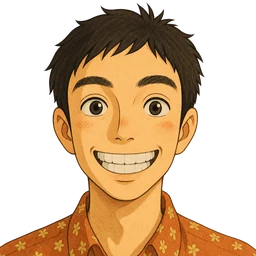
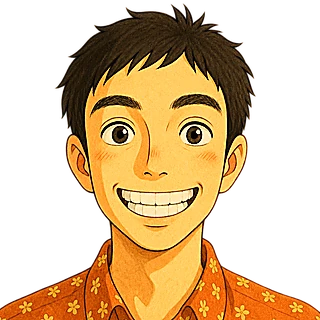
Sharper footer portrait: positive ASCII cube, finer cells, crisper Swarm
- Cube texture redrawn as inked line art from the 1254px portrait
  (difference-of-gaussians lines over flat tones) and rendered as a
  positive image: skin is dense glyphs, hair and lines are gaps, background
  a sparse dot field so the cube outline stays. Cells 3.75px (3.25px on
  phones), ~75 columns. Rainbow unchanged.
- Swarm: 320px sharpened, slightly saturated source; 24k finer beads (18k on
  phones); near-flat shading once landed so the illustration's tones carry
  the face.

diff --git a/now.html b/now.html
@@ -100,7 +100,7 @@
         <div class="container" id="footer-content" data-injected="true"><div class="cube-wrapper" aria-hidden="true"><canvas id="ascii-cube"></canvas></div><div class="viz-switch" role="group" aria-label="Footer animation" hidden><button type="button" data-viz="cube" aria-pressed="true">Cube</button><button type="button" data-viz="swarm" aria-pressed="false">Swarm</button></div><div class="social-icons"><a href="https://www.linkedin.com/in/manaiakalani/" target="_blank" rel="noopener noreferrer me" aria-label="LinkedIn"><svg class="icon" viewBox="0 0 24 24" aria-hidden="true" focusable="false"><path fill="currentColor" d="M4.4 3.2A2.2 2.2 0 1 0 4.4 7.6 2.2 2.2 0 0 0 4.4 3.2ZM3.2 9.2h2.5V20.8H3.2V9.2Zm5.3 0h2.4v1.6h.1c.3-.6 1.2-1.8 3.2-1.8 3.4 0 4 2.2 4 5.1v6.7h-2.5v-6c0-1.4 0-3.2-2-3.2s-2.3 1.5-2.3 3.1v6.1H8.5V9.2Z"/></svg></a><a href="https://x.com/manaiakalani" target="_blank" rel="noopener noreferrer me" aria-label="X (formerly Twitter)"><svg class="icon" viewBox="0 0 24 24" aria-hidden="true" focusable="false"><path fill="currentColor" d="M3.2 3.2h5.1l4.1 5.8L17.3 3.2H21l-7.1 8.4L21.2 20.8h-5.1l-4.5-6.4-5.2 6.4H3.2l7.6-8.9L3.2 3.2z"/></svg></a><a href="https://github.com/manaiakalani" target="_blank" rel="noopener noreferrer me" aria-label="GitHub"><svg class="icon" viewBox="0 0 24 24" aria-hidden="true" focusable="false"><path fill="currentColor" d="M12 2a10 10 0 0 0-3.2 19.5c.5.1.7-.2.7-.5v-1.7c-2.8.6-3.4-1.2-3.4-1.2-.4-1.1-1.1-1.4-1.1-1.4-.9-.6.1-.6.1-.6 1 .1 1.5 1 1.5 1 .9 1.5 2.4 1.1 3 .8.1-.6.4-1.1.6-1.3-2.2-.3-4.6-1.1-4.6-5 0-1.1.4-2 1-2.7-.1-.3-.4-1.3.1-2.7 0 0 .8-.3 2.8 1a9.6 9.6 0 0 1 5 0c2-.1.8-1 2.8-1 .5 1.4.2 2.4.1 2.7.6.7 1 1.6 1 2.7 0 3.9-2.4 4.7-4.6 5 .4.3.7 1 .7 2v2.3c0 .3.2.6.7.5A10 10 0 0 0 12 2z"/></svg></a><a href="https://instagram.com/manaiakalani" target="_blank" rel="noopener noreferrer me" aria-label="Instagram"><svg class="icon" viewBox="0 0 24 24" aria-hidden="true" focusable="false"><path fill="currentColor" fill-rule="evenodd" d="M8 3h8a5 5 0 0 1 5 5v8a5 5 0 0 1-5 5H8a5 5 0 0 1-5-5V8a5 5 0 0 1 5-5Zm8 2.2H8A2.8 2.8 0 0 0 5.2 8v8A2.8 2.8 0 0 0 8 18.8h8A2.8 2.8 0 0 0 18.8 16V8A2.8 2.8 0 0 0 16 5.2ZM12 8.2A3.8 3.8 0 1 1 8.2 12 3.8 3.8 0 0 1 12 8.2Zm0 2a1.8 1.8 0 1 0 0 3.6 1.8 1.8 0 0 0 0-3.6ZM17.1 6.4a1 1 0 1 1 0 2 1 1 0 0 1 0-2Z"/></svg></a><a href="https://www.youtube.com/kimaker213" target="_blank" rel="noopener noreferrer me" aria-label="YouTube"><svg class="icon" viewBox="0 0 24 24" aria-hidden="true" focusable="false"><path fill="currentColor" fill-rule="evenodd" d="M21.6 7.4c-.2-1.2-1.1-2.1-2.3-2.3C17.4 4.8 12 4.8 12 4.8s-5.4 0-7.3.3C3.5 5.3 2.6 6.2 2.4 7.4 2.1 9.3 2.1 12 2.1 12s0 2.7.3 4.6c.2 1.2 1.1 2 2.3 2.3 1.9.3 7.3.3 7.3.3s5.4 0 7.3-.3c1.2-.3 2.1-1.1 2.3-2.3.3-1.9.3-4.6.3-4.6s0-2.7-.3-4.6ZM10.2 15.2V8.8l5.6 3.2-5.6 3.2Z"/></svg></a><a href="https://bsky.app/profile/did:plc:kurxpumma6piictgpr424wcj" target="_blank" rel="noopener noreferrer me" aria-label="Bluesky"><svg class="icon" viewBox="0 0 24 24" aria-hidden="true" focusable="false"><path fill="currentColor" d="M6.2 4.2c2.4 1.8 5 5.3 5.8 7.4.8-2.1 3.4-5.6 5.8-7.4C20.2 2.8 21 3.1 21.5 3.4c.6.3.7 1.3.7 1.9 0 .6-.3 4.9-.5 5.6-.7 2.3-3.2 3.1-5.5 2.8 3.3.5 6.3 1.7 2.4 6-4.3 4.4-5.9-.9-6.6-3.6-.8 2.7-1.8 8-6.6 3.6-3.7-3.7-1-5.5 2.4-6-2.3.3-4.8-.5-5.5-2.8C1.6 10.2 1.3 5.9 1.3 5.3c0-.6.1-1.6.7-1.9.5-.3 1.3-.6 4.2.8Z"/></svg></a></div><p class="footer-links"><a href="/guestbook#sign" class="footer-text-btn" id="sign-the-book"><svg class="icon" viewBox="0 0 24 24" aria-hidden="true" focusable="false"><path fill="currentColor" d="M4 3.2h6.2c1.4 0 2.6.6 3.4 1.6.8-1 2-1.6 3.4-1.6H23V19h-6.2c-1 0-1.9.3-2.6.9V6.4A2.4 2.4 0 0 0 11.8 4H5.6v16.4h6.6V22H4V3.2z"/></svg> Sign the book</a><a href="/now">Now</a><a href="/colophon">Colophon</a><a href="https://github.com/Manaiakalani/Manaiakalani.com">Source</a><a href="mailto:webmaster@manaiakalani.com">Email</a><a href="/feed.xml">RSS</a></p><p class="footer-text">Made with <span class="heart-beat" aria-hidden="true"><svg class="icon" viewBox="0 0 24 24" aria-hidden="true" focusable="false"><path fill="currentColor" d="M12 21S3 14.4 3 8.8A5.1 5.1 0 0 1 8.4 3.6 5.4 5.4 0 0 1 12 5.4a5.4 5.4 0 0 1 3.6-1.8A5.1 5.1 0 0 1 21 8.8C21 14.4 12 21 12 21z"/></svg></span> in Seattle, WA</p><p class="footer-visits" hidden><span class="visits-odometer" aria-label="Visitor count"></span><span class="visits-label">Visitors</span></p></div>
     </footer>
     <script defer src="/icons.js?v=8e859fc3"></script>
-    <script defer src="/components.js?v=49461e99"></script>
+    <script defer src="/components.js?v=a51a2149"></script>
     <script defer src="/guestbook.js?v=97c19949"></script>
     <script defer src="/script.js?v=3a3123b8"></script>
     <script type="importmap">

diff --git a/guestbook.html b/guestbook.html
@@ -82,7 +82,7 @@
         <div class="container" id="footer-content" data-injected="true"><div class="cube-wrapper" aria-hidden="true"><canvas id="ascii-cube"></canvas></div><div class="viz-switch" role="group" aria-label="Footer animation" hidden><button type="button" data-viz="cube" aria-pressed="true">Cube</button><button type="button" data-viz="swarm" aria-pressed="false">Swarm</button></div><div class="social-icons"><a href="https://www.linkedin.com/in/manaiakalani/" target="_blank" rel="noopener noreferrer me" aria-label="LinkedIn"><svg class="icon" viewBox="0 0 24 24" aria-hidden="true" focusable="false"><path fill="currentColor" d="M4.4 3.2A2.2 2.2 0 1 0 4.4 7.6 2.2 2.2 0 0 0 4.4 3.2ZM3.2 9.2h2.5V20.8H3.2V9.2Zm5.3 0h2.4v1.6h.1c.3-.6 1.2-1.8 3.2-1.8 3.4 0 4 2.2 4 5.1v6.7h-2.5v-6c0-1.4 0-3.2-2-3.2s-2.3 1.5-2.3 3.1v6.1H8.5V9.2Z"/></svg></a><a href="https://x.com/manaiakalani" target="_blank" rel="noopener noreferrer me" aria-label="X (formerly Twitter)"><svg class="icon" viewBox="0 0 24 24" aria-hidden="true" focusable="false"><path fill="currentColor" d="M3.2 3.2h5.1l4.1 5.8L17.3 3.2H21l-7.1 8.4L21.2 20.8h-5.1l-4.5-6.4-5.2 6.4H3.2l7.6-8.9L3.2 3.2z"/></svg></a><a href="https://github.com/manaiakalani" target="_blank" rel="noopener noreferrer me" aria-label="GitHub"><svg class="icon" viewBox="0 0 24 24" aria-hidden="true" focusable="false"><path fill="currentColor" d="M12 2a10 10 0 0 0-3.2 19.5c.5.1.7-.2.7-.5v-1.7c-2.8.6-3.4-1.2-3.4-1.2-.4-1.1-1.1-1.4-1.1-1.4-.9-.6.1-.6.1-.6 1 .1 1.5 1 1.5 1 .9 1.5 2.4 1.1 3 .8.1-.6.4-1.1.6-1.3-2.2-.3-4.6-1.1-4.6-5 0-1.1.4-2 1-2.7-.1-.3-.4-1.3.1-2.7 0 0 .8-.3 2.8 1a9.6 9.6 0 0 1 5 0c2-.1.8-1 2.8-1 .5 1.4.2 2.4.1 2.7.6.7 1 1.6 1 2.7 0 3.9-2.4 4.7-4.6 5 .4.3.7 1 .7 2v2.3c0 .3.2.6.7.5A10 10 0 0 0 12 2z"/></svg></a><a href="https://instagram.com/manaiakalani" target="_blank" rel="noopener noreferrer me" aria-label="Instagram"><svg class="icon" viewBox="0 0 24 24" aria-hidden="true" focusable="false"><path fill="currentColor" fill-rule="evenodd" d="M8 3h8a5 5 0 0 1 5 5v8a5 5 0 0 1-5 5H8a5 5 0 0 1-5-5V8a5 5 0 0 1 5-5Zm8 2.2H8A2.8 2.8 0 0 0 5.2 8v8A2.8 2.8 0 0 0 8 18.8h8A2.8 2.8 0 0 0 18.8 16V8A2.8 2.8 0 0 0 16 5.2ZM12 8.2A3.8 3.8 0 1 1 8.2 12 3.8 3.8 0 0 1 12 8.2Zm0 2a1.8 1.8 0 1 0 0 3.6 1.8 1.8 0 0 0 0-3.6ZM17.1 6.4a1 1 0 1 1 0 2 1 1 0 0 1 0-2Z"/></svg></a><a href="https://www.youtube.com/kimaker213" target="_blank" rel="noopener noreferrer me" aria-label="YouTube"><svg class="icon" viewBox="0 0 24 24" aria-hidden="true" focusable="false"><path fill="currentColor" fill-rule="evenodd" d="M21.6 7.4c-.2-1.2-1.1-2.1-2.3-2.3C17.4 4.8 12 4.8 12 4.8s-5.4 0-7.3.3C3.5 5.3 2.6 6.2 2.4 7.4 2.1 9.3 2.1 12 2.1 12s0 2.7.3 4.6c.2 1.2 1.1 2 2.3 2.3 1.9.3 7.3.3 7.3.3s5.4 0 7.3-.3c1.2-.3 2.1-1.1 2.3-2.3.3-1.9.3-4.6.3-4.6s0-2.7-.3-4.6ZM10.2 15.2V8.8l5.6 3.2-5.6 3.2Z"/></svg></a><a href="https://bsky.app/profile/did:plc:kurxpumma6piictgpr424wcj" target="_blank" rel="noopener noreferrer me" aria-label="Bluesky"><svg class="icon" viewBox="0 0 24 24" aria-hidden="true" focusable="false"><path fill="currentColor" d="M6.2 4.2c2.4 1.8 5 5.3 5.8 7.4.8-2.1 3.4-5.6 5.8-7.4C20.2 2.8 21 3.1 21.5 3.4c.6.3.7 1.3.7 1.9 0 .6-.3 4.9-.5 5.6-.7 2.3-3.2 3.1-5.5 2.8 3.3.5 6.3 1.7 2.4 6-4.3 4.4-5.9-.9-6.6-3.6-.8 2.7-1.8 8-6.6 3.6-3.7-3.7-1-5.5 2.4-6-2.3.3-4.8-.5-5.5-2.8C1.6 10.2 1.3 5.9 1.3 5.3c0-.6.1-1.6.7-1.9.5-.3 1.3-.6 4.2.8Z"/></svg></a></div><p class="footer-links"><a href="/guestbook#sign" class="footer-text-btn" id="sign-the-book"><svg class="icon" viewBox="0 0 24 24" aria-hidden="true" focusable="false"><path fill="currentColor" d="M4 3.2h6.2c1.4 0 2.6.6 3.4 1.6.8-1 2-1.6 3.4-1.6H23V19h-6.2c-1 0-1.9.3-2.6.9V6.4A2.4 2.4 0 0 0 11.8 4H5.6v16.4h6.6V22H4V3.2z"/></svg> Sign the book</a><a href="/now">Now</a><a href="/colophon">Colophon</a><a href="https://github.com/Manaiakalani/Manaiakalani.com">Source</a><a href="mailto:webmaster@manaiakalani.com">Email</a><a href="/feed.xml">RSS</a></p><p class="footer-text">Made with <span class="heart-beat" aria-hidden="true"><svg class="icon" viewBox="0 0 24 24" aria-hidden="true" focusable="false"><path fill="currentColor" d="M12 21S3 14.4 3 8.8A5.1 5.1 0 0 1 8.4 3.6 5.4 5.4 0 0 1 12 5.4a5.4 5.4 0 0 1 3.6-1.8A5.1 5.1 0 0 1 21 8.8C21 14.4 12 21 12 21z"/></svg></span> in Seattle, WA</p><p class="footer-visits" hidden><span class="visits-odometer" aria-label="Visitor count"></span><span class="visits-label">Visitors</span></p></div>
     </footer>
     <script defer src="/icons.js?v=8e859fc3"></script>
-    <script defer src="/components.js?v=49461e99"></script>
+    <script defer src="/components.js?v=a51a2149"></script>
     <script defer src="/guestbook.js?v=97c19949"></script>
     <script defer src="/script.js?v=3a3123b8"></script>
     <script type="importmap">

diff --git a/colophon.html b/colophon.html
@@ -105,7 +105,7 @@
         <div class="container" id="footer-content" data-injected="true"><div class="cube-wrapper" aria-hidden="true"><canvas id="ascii-cube"></canvas></div><div class="viz-switch" role="group" aria-label="Footer animation" hidden><button type="button" data-viz="cube" aria-pressed="true">Cube</button><button type="button" data-viz="swarm" aria-pressed="false">Swarm</button></div><div class="social-icons"><a href="https://www.linkedin.com/in/manaiakalani/" target="_blank" rel="noopener noreferrer me" aria-label="LinkedIn"><svg class="icon" viewBox="0 0 24 24" aria-hidden="true" focusable="false"><path fill="currentColor" d="M4.4 3.2A2.2 2.2 0 1 0 4.4 7.6 2.2 2.2 0 0 0 4.4 3.2ZM3.2 9.2h2.5V20.8H3.2V9.2Zm5.3 0h2.4v1.6h.1c.3-.6 1.2-1.8 3.2-1.8 3.4 0 4 2.2 4 5.1v6.7h-2.5v-6c0-1.4 0-3.2-2-3.2s-2.3 1.5-2.3 3.1v6.1H8.5V9.2Z"/></svg></a><a href="https://x.com/manaiakalani" target="_blank" rel="noopener noreferrer me" aria-label="X (formerly Twitter)"><svg class="icon" viewBox="0 0 24 24" aria-hidden="true" focusable="false"><path fill="currentColor" d="M3.2 3.2h5.1l4.1 5.8L17.3 3.2H21l-7.1 8.4L21.2 20.8h-5.1l-4.5-6.4-5.2 6.4H3.2l7.6-8.9L3.2 3.2z"/></svg></a><a href="https://github.com/manaiakalani" target="_blank" rel="noopener noreferrer me" aria-label="GitHub"><svg class="icon" viewBox="0 0 24 24" aria-hidden="true" focusable="false"><path fill="currentColor" d="M12 2a10 10 0 0 0-3.2 19.5c.5.1.7-.2.7-.5v-1.7c-2.8.6-3.4-1.2-3.4-1.2-.4-1.1-1.1-1.4-1.1-1.4-.9-.6.1-.6.1-.6 1 .1 1.5 1 1.5 1 .9 1.5 2.4 1.1 3 .8.1-.6.4-1.1.6-1.3-2.2-.3-4.6-1.1-4.6-5 0-1.1.4-2 1-2.7-.1-.3-.4-1.3.1-2.7 0 0 .8-.3 2.8 1a9.6 9.6 0 0 1 5 0c2-.1.8-1 2.8-1 .5 1.4.2 2.4.1 2.7.6.7 1 1.6 1 2.7 0 3.9-2.4 4.7-4.6 5 .4.3.7 1 .7 2v2.3c0 .3.2.6.7.5A10 10 0 0 0 12 2z"/></svg></a><a href="https://instagram.com/manaiakalani" target="_blank" rel="noopener noreferrer me" aria-label="Instagram"><svg class="icon" viewBox="0 0 24 24" aria-hidden="true" focusable="false"><path fill="currentColor" fill-rule="evenodd" d="M8 3h8a5 5 0 0 1 5 5v8a5 5 0 0 1-5 5H8a5 5 0 0 1-5-5V8a5 5 0 0 1 5-5Zm8 2.2H8A2.8 2.8 0 0 0 5.2 8v8A2.8 2.8 0 0 0 8 18.8h8A2.8 2.8 0 0 0 18.8 16V8A2.8 2.8 0 0 0 16 5.2ZM12 8.2A3.8 3.8 0 1 1 8.2 12 3.8 3.8 0 0 1 12 8.2Zm0 2a1.8 1.8 0 1 0 0 3.6 1.8 1.8 0 0 0 0-3.6ZM17.1 6.4a1 1 0 1 1 0 2 1 1 0 0 1 0-2Z"/></svg></a><a href="https://www.youtube.com/kimaker213" target="_blank" rel="noopener noreferrer me" aria-label="YouTube"><svg class="icon" viewBox="0 0 24 24" aria-hidden="true" focusable="false"><path fill="currentColor" fill-rule="evenodd" d="M21.6 7.4c-.2-1.2-1.1-2.1-2.3-2.3C17.4 4.8 12 4.8 12 4.8s-5.4 0-7.3.3C3.5 5.3 2.6 6.2 2.4 7.4 2.1 9.3 2.1 12 2.1 12s0 2.7.3 4.6c.2 1.2 1.1 2 2.3 2.3 1.9.3 7.3.3 7.3.3s5.4 0 7.3-.3c1.2-.3 2.1-1.1 2.3-2.3.3-1.9.3-4.6.3-4.6s0-2.7-.3-4.6ZM10.2 15.2V8.8l5.6 3.2-5.6 3.2Z"/></svg></a><a href="https://bsky.app/profile/did:plc:kurxpumma6piictgpr424wcj" target="_blank" rel="noopener noreferrer me" aria-label="Bluesky"><svg class="icon" viewBox="0 0 24 24" aria-hidden="true" focusable="false"><path fill="currentColor" d="M6.2 4.2c2.4 1.8 5 5.3 5.8 7.4.8-2.1 3.4-5.6 5.8-7.4C20.2 2.8 21 3.1 21.5 3.4c.6.3.7 1.3.7 1.9 0 .6-.3 4.9-.5 5.6-.7 2.3-3.2 3.1-5.5 2.8 3.3.5 6.3 1.7 2.4 6-4.3 4.4-5.9-.9-6.6-3.6-.8 2.7-1.8 8-6.6 3.6-3.7-3.7-1-5.5 2.4-6-2.3.3-4.8-.5-5.5-2.8C1.6 10.2 1.3 5.9 1.3 5.3c0-.6.1-1.6.7-1.9.5-.3 1.3-.6 4.2.8Z"/></svg></a></div><p class="footer-links"><a href="/guestbook#sign" class="footer-text-btn" id="sign-the-book"><svg class="icon" viewBox="0 0 24 24" aria-hidden="true" focusable="false"><path fill="currentColor" d="M4 3.2h6.2c1.4 0 2.6.6 3.4 1.6.8-1 2-1.6 3.4-1.6H23V19h-6.2c-1 0-1.9.3-2.6.9V6.4A2.4 2.4 0 0 0 11.8 4H5.6v16.4h6.6V22H4V3.2z"/></svg> Sign the book</a><a href="/now">Now</a><a href="/colophon">Colophon</a><a href="https://github.com/Manaiakalani/Manaiakalani.com">Source</a><a href="mailto:webmaster@manaiakalani.com">Email</a><a href="/feed.xml">RSS</a></p><p class="footer-text">Made with <span class="heart-beat" aria-hidden="true"><svg class="icon" viewBox="0 0 24 24" aria-hidden="true" focusable="false"><path fill="currentColor" d="M12 21S3 14.4 3 8.8A5.1 5.1 0 0 1 8.4 3.6 5.4 5.4 0 0 1 12 5.4a5.4 5.4 0 0 1 3.6-1.8A5.1 5.1 0 0 1 21 8.8C21 14.4 12 21 12 21z"/></svg></span> in Seattle, WA</p><p class="footer-visits" hidden><span class="visits-odometer" aria-label="Visitor count"></span><span class="visits-label">Visitors</span></p></div>
     </footer>
     <script defer src="icons.js?v=8e859fc3"></script>
-    <script defer src="components.js?v=49461e99"></script>
+    <script defer src="components.js?v=a51a2149"></script>
     <script defer src="guestbook.js?v=97c19949"></script>
     <script defer src="script.js?v=3a3123b8"></script>
     <script type="importmap">

diff --git a/particles.js b/particles.js
@@ -85,12 +85,13 @@ void main() {
   vec3 L = normalize(vec3(-0.5, 0.7, 0.9));
   float diffuse = max(dot(n, L), 0.0);
   float glint = pow(max(dot(n, normalize(L + vec3(0.0, 0.0, 1.0))), 0.0), 22.0);
-  float depthFade = 0.75 + 0.25 * clamp(vDepth + 0.5, 0.0, 1.0);
+  float depthFade = mix(0.75 + 0.25 * clamp(vDepth + 0.5, 0.0, 1.0), 1.0, vBlend * 0.7);
   // In flight the beads run through the site's rainbow; they settle into the
   // portrait's own colours as they land. GeoCities keeps them rainbow.
   vec3 flight = hue(vHue + uTime * 0.06) * 0.85;
   vec3 base = mix(mix(flight, vColor, vBlend), hue(vHue + uTime * 0.1), uRainbow);
-  vec3 col = base * (0.55 + 0.6 * diffuse) * depthFade + glint * 0.18;
+  // Mostly flat shading once landed so the portrait's own tones carry the image.
+  vec3 col = base * mix(0.55 + 0.6 * diffuse, 0.88 + 0.2 * diffuse, vBlend) * depthFade + glint * 0.12 * (1.0 - 0.6 * vBlend);
   float a = smoothstep(1.0, 0.72, r2);
   gl_FragColor = vec4(col * a, a);
 }`;
@@ -106,7 +107,7 @@ function rng(seed) {
 
 // Returns { pos: Float32Array(n*4), color: Float32Array(n*3) }.
 function sampleBeads(img, n) {
-  const S = 256;
+  const S = 320;
   const c = document.createElement('canvas');
   c.width = c.height = S;
   const ctx = c.getContext('2d', { willReadFrequently: true });
@@ -127,7 +128,7 @@ function sampleBeads(img, n) {
     const l = lum(i);
     const nb = ix > 0 && ix < S - 1 && iy > 0 && iy < S - 1
       ? Math.abs(lum(i - 1) - lum(i + 1)) + Math.abs(lum(i - S) - lum(i + S)) : 0;
-    const w = Math.min(1, 0.5 + nb * 2.5 + (1 - l) * 0.3);
+    const w = Math.min(1, 0.6 + nb * 2.5 + (1 - l) * 0.3);
     if (rand() > w) continue;
     const x = (fx / S) * 2 - 1, y = 1 - (fy / S) * 2;
     const r = Math.hypot(x * 1.1, y);
@@ -168,7 +169,7 @@ export async function initParticles(canvas, { imageUrl = '/portrait-beads.webp' 
 
   const img = await loadImage(imageUrl);
   const small = canvas.parentElement.getBoundingClientRect().width < 260;
-  const N = small ? 13000 : 17000;
+  const N = small ? 18000 : 24000;
   const { pos, color } = sampleBeads(img, N);
 
   const prog = gl.createProgram();
@@ -260,8 +261,8 @@ export async function initParticles(canvas, { imageUrl = '/portrait-beads.webp' 
     gl.uniform2f(U.uTilt, tiltNow[0], tiltNow[1]);
     gl.uniform3f(U.uPointer, pointer.x, pointer.y, pointer.s);
     gl.uniform1f(U.uScale, SCALE);
-    // ~1.6 CSS px beads on the 280px canvas; scales with the box.
-    gl.uniform1f(U.uPointSize, Math.max(1.25, (cssW / 175) * dpr));
+    // ~1.4 CSS px beads on the 280px canvas; scales with the box.
+    gl.uniform1f(U.uPointSize, Math.max(1.25, (cssW / 205) * dpr));
     gl.uniform1f(U.uRainbow, rainbow);
     gl.uniform1f(U.uTime, time);
     gl.drawArrays(gl.POINTS, 0, N);

diff --git a/cube.js b/cube.js
@@ -12,11 +12,11 @@ const DRAG_SENSITIVITY = 85;
 const MAX_DPR         = 3;
 const ENTER_DURATION  = 1800;
 
-// Glyph cell in CSS px. ~60 columns across the canvas: enough to resolve the
-// face on the texture, while each glyph still renders at 8-15 device px.
+// Glyph cell in CSS px. ~75 columns across the canvas so the face resolves;
+// at 2-3x DPR each glyph still renders at 7-11 device px.
 function getCellSize(w) {
-  if (w < 260) return 4;
-  return 4.5;
+  if (w < 260) return 3.25;
+  return 3.75;
 }
 
 
@@ -194,7 +194,9 @@ export function initCube(canvasEl, textureUrl) {
     asciiPass = new ShaderPass(ASCIIShader);
     asciiPass.uniforms.uCharactersCount.value = CHARACTERS.length;
     asciiPass.uniforms.uColor.value = new THREE.Color(0xffffff);
-    asciiPass.uniforms.uInvert.value = true;
+    // Positive image: bright skin = dense glyphs, dark lines = gaps. The face
+    // reads at a glance instead of as a negative.
+    asciiPass.uniforms.uInvert.value = false;
     composer.addPass(asciiPass);
 
     onResize();

diff --git a/cube-loader.js b/cube-loader.js
@@ -38,8 +38,8 @@ if (canvas && !saveData) {
   // The canvas is decorative and simply stays blank if three.js (CDN) or WebGL is
   // unavailable; failures clear `pending` so a later intersection can retry.
   const engines = {
-    cube: () => import("/cube.js?v=d310ef1a").then(({ initCube }) => initCube(canvas, "/cube-texture.webp?v=0fbe3269")),
-    swarm: () => import("/particles.js?v=b03f7c3c").then(({ initParticles }) => initParticles(canvas, { imageUrl: "/portrait-beads.webp?v=49d075cf" }))
+    cube: () => import("/cube.js?v=62376f87").then(({ initCube }) => initCube(canvas, "/cube-texture.webp?v=c61215e5")),
+    swarm: () => import("/particles.js?v=e8f223b4").then(({ initParticles }) => initParticles(canvas, { imageUrl: "/portrait-beads.webp?v=edb3c469" }))
   };
 
   const start = () => {

diff --git a/404.html b/404.html
@@ -247,7 +247,7 @@
     }
     </script>
     <script defer src="/icons.js?v=8e859fc3"></script>
-    <script defer src="/components.js?v=49461e99"></script>
+    <script defer src="/components.js?v=a51a2149"></script>
     <script defer src="/guestbook.js?v=97c19949"></script>
     <script defer src="/script.js?v=3a3123b8"></script>
     <script defer src="/command-palette.js?v=cba3ac8f"></script>

diff --git a/projects.html b/projects.html
@@ -120,7 +120,7 @@
     </footer>
 
     <script defer src="icons.js?v=8e859fc3"></script>
-    <script defer src="components.js?v=49461e99"></script>
+    <script defer src="components.js?v=a51a2149"></script>
     <script defer src="guestbook.js?v=97c19949"></script>
     <script defer src="script.js?v=3a3123b8"></script>
     <script type="importmap">

diff --git a/index.html b/index.html
@@ -212,7 +212,7 @@
 
     <!-- External JavaScript -->
     <script defer src="icons.js?v=8e859fc3"></script>
-    <script defer src="components.js?v=49461e99"></script>
+    <script defer src="components.js?v=a51a2149"></script>
     <script defer src="guestbook.js?v=97c19949"></script>
     <script defer src="script.js?v=3a3123b8"></script>
 

diff --git a/thoughts.html b/thoughts.html
@@ -327,7 +327,7 @@
 
     <!-- External JavaScript -->
     <script defer src="icons.js?v=8e859fc3"></script>
-    <script defer src="components.js?v=49461e99"></script>
+    <script defer src="components.js?v=a51a2149"></script>
     <script defer src="guestbook.js?v=97c19949"></script>
     <script defer src="script.js?v=3a3123b8"></script>
 

diff --git a/uses.html b/uses.html
@@ -255,7 +255,7 @@
 
     <!-- External JavaScript -->
     <script defer src="icons.js?v=8e859fc3"></script>
-    <script defer src="components.js?v=49461e99"></script>
+    <script defer src="components.js?v=a51a2149"></script>
     <script defer src="guestbook.js?v=97c19949"></script>
     <script defer src="script.js?v=3a3123b8"></script>
 

diff --git a/components.js b/components.js
@@ -113,7 +113,7 @@
         var moduleScript = document.createElement('script');
         moduleScript.type = 'module';
         moduleScript.dataset.cubeLoader = 'true';
-        moduleScript.src = '/cube-loader.js?v=13e2bab2';
+        moduleScript.src = '/cube-loader.js?v=ccbfee15';
         document.body.appendChild(moduleScript);
     }
 
